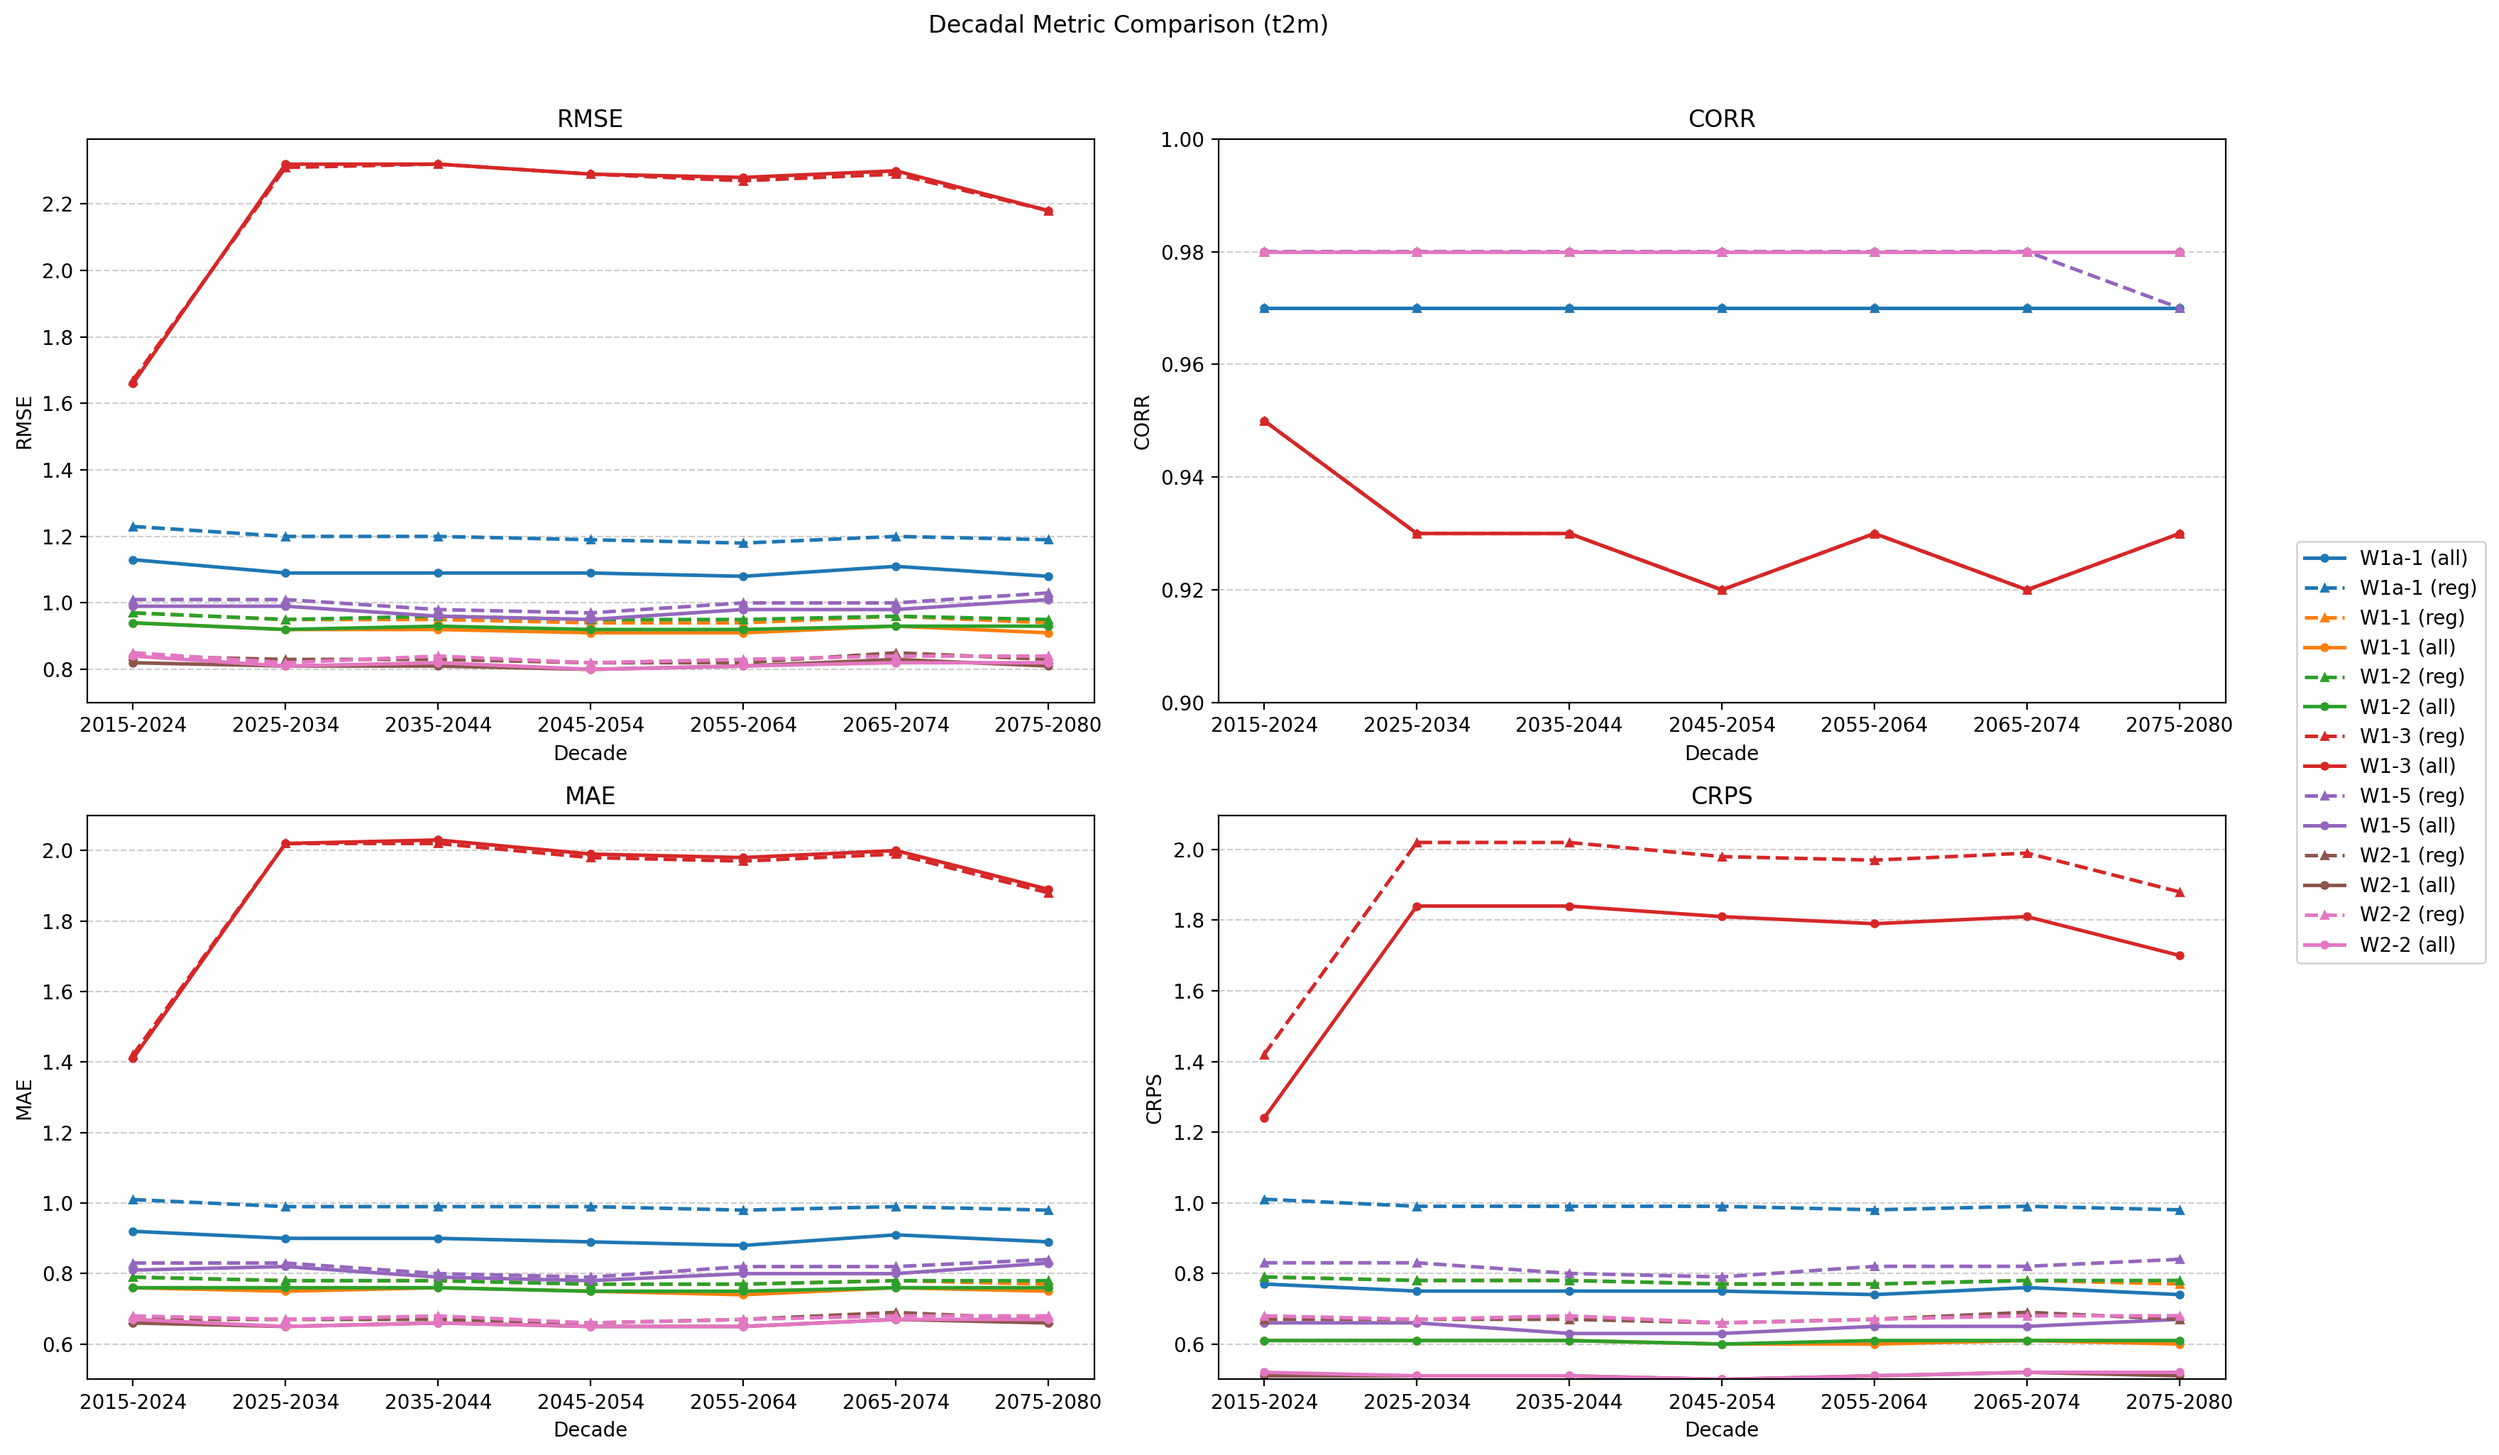
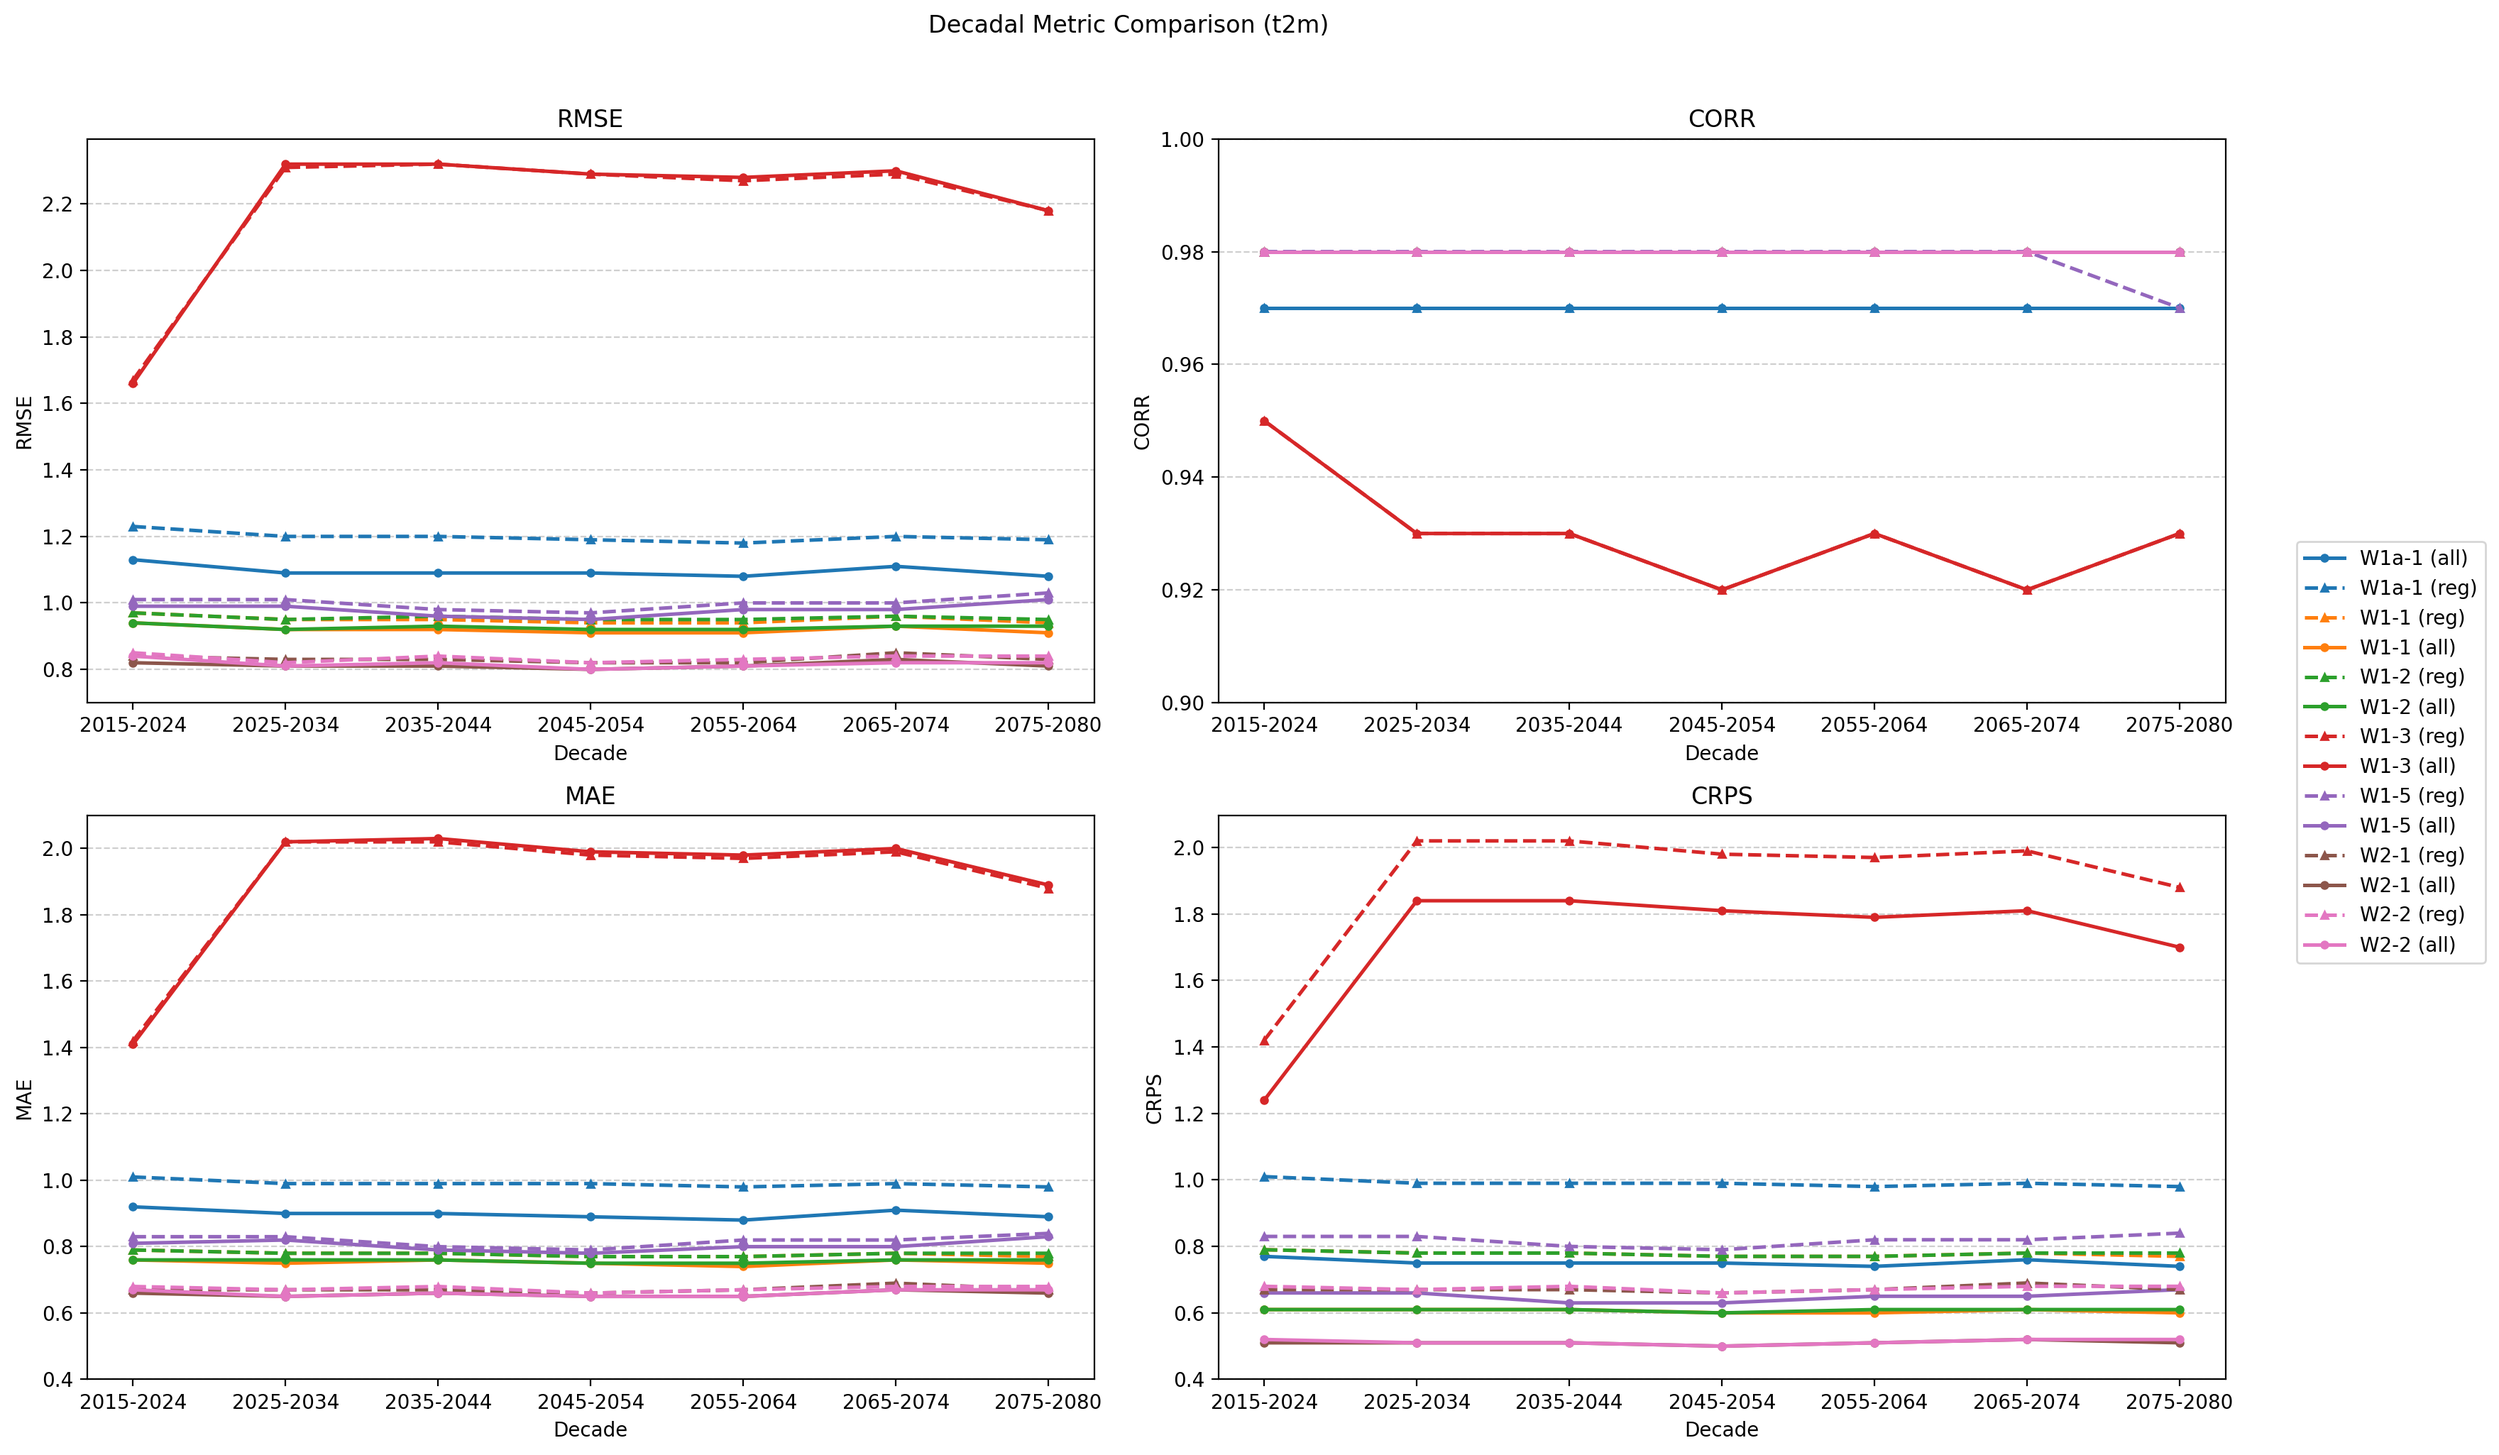
Improve clarity for cmp plots.

diff --git a/src/plot_helper/comparison.py b/src/plot_helper/comparison.py
@@ -45,8 +45,8 @@ Y_LIMITS = {
     },
     "t2m": {
         "RMSE": (0.7, None),
-        "MAE": (0.5, None),
-        "CRPS": (0.5, None),
+        "MAE": (0.4, None),
+        "CRPS": (0.4, None),
         "CORR": (0.9, 1.0),
     },
     **{
@@ -230,9 +230,10 @@ def _plot_metric_all_groups(
 
     # Show "W*-1", "W*-2", ... on x-axis
     ax.set_xticks(range(len(SUFFIX_ORDER)))
-    ax.set_xticklabels([f"W*{s}" for s in SUFFIX_ORDER])
+    ax.set_xticklabels([f"SSP{s[1:]}\n(W*{s})" for s in SUFFIX_ORDER])
 
     ax.set_title(metric)
+    ax.set_xlabel("Generation Dataset")
     ax.set_ylabel(metric)
     ax.grid(axis="y", linestyle="--", alpha=0.6)
     _apply_ylim(ax, variable, metric)
